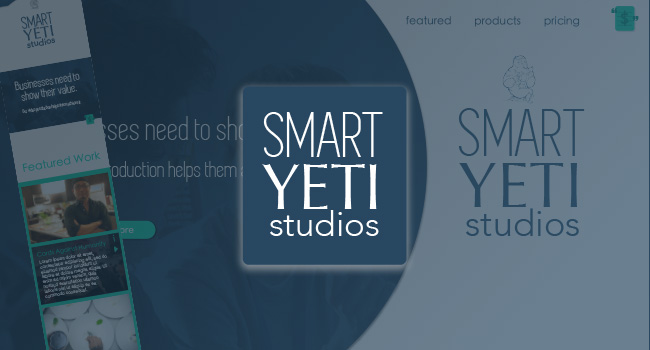
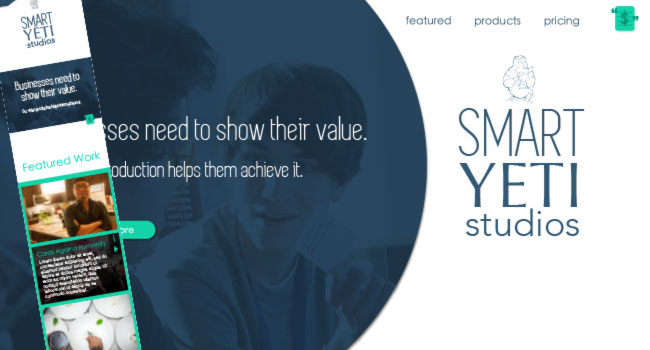
sms

diff --git a/smart_yeti.html b/smart_yeti.html
@@ -146,9 +146,9 @@
             <div class="row">
                 <div class="col-lg-12 text-center">
                     <h3>Responsive design</h3>
-                    <img class="images" src="portfolio-pages/sms/sms_desktop_home.jpg" class="img-responsive" alt="" width="50%">
-                    <img class="images" src="portfolio-pages/sms/sms_tablet_home.jpg" class="img-responsive" alt="" width="30%">
-                    <img class="images" src="portfolio-pages/sms/sms_mobile_home.jpg" class="img-responsive" alt="" width="10%">
+                    <img class="smsImages" src="portfolio-pages/sms/sms_desktop_home.jpg" class="img-responsive" alt="" width="50%">
+                    <img class="smsImages" src="portfolio-pages/sms/sms_tablet_home.jpg" class="img-responsive" alt="" width="30%">
+                    <img class="smsImages" src="portfolio-pages/sms/sms_mobile_home.jpg" class="img-responsive" alt="" width="10%">
                 </div>
             </div>
         </div>

diff --git a/css/project.css b/css/project.css
@@ -109,7 +109,12 @@ img {
     height: auto;
 
 }
-
+.smsImages{
+    box-shadow: 0px 5px 15px rgba(33,33,33,0.6);
+    vertical-align: top;
+    margin: 50px 10px auto;
+    height: auto;
+}
 .images-phone{
     display: inline;
     vertical-align: top;
